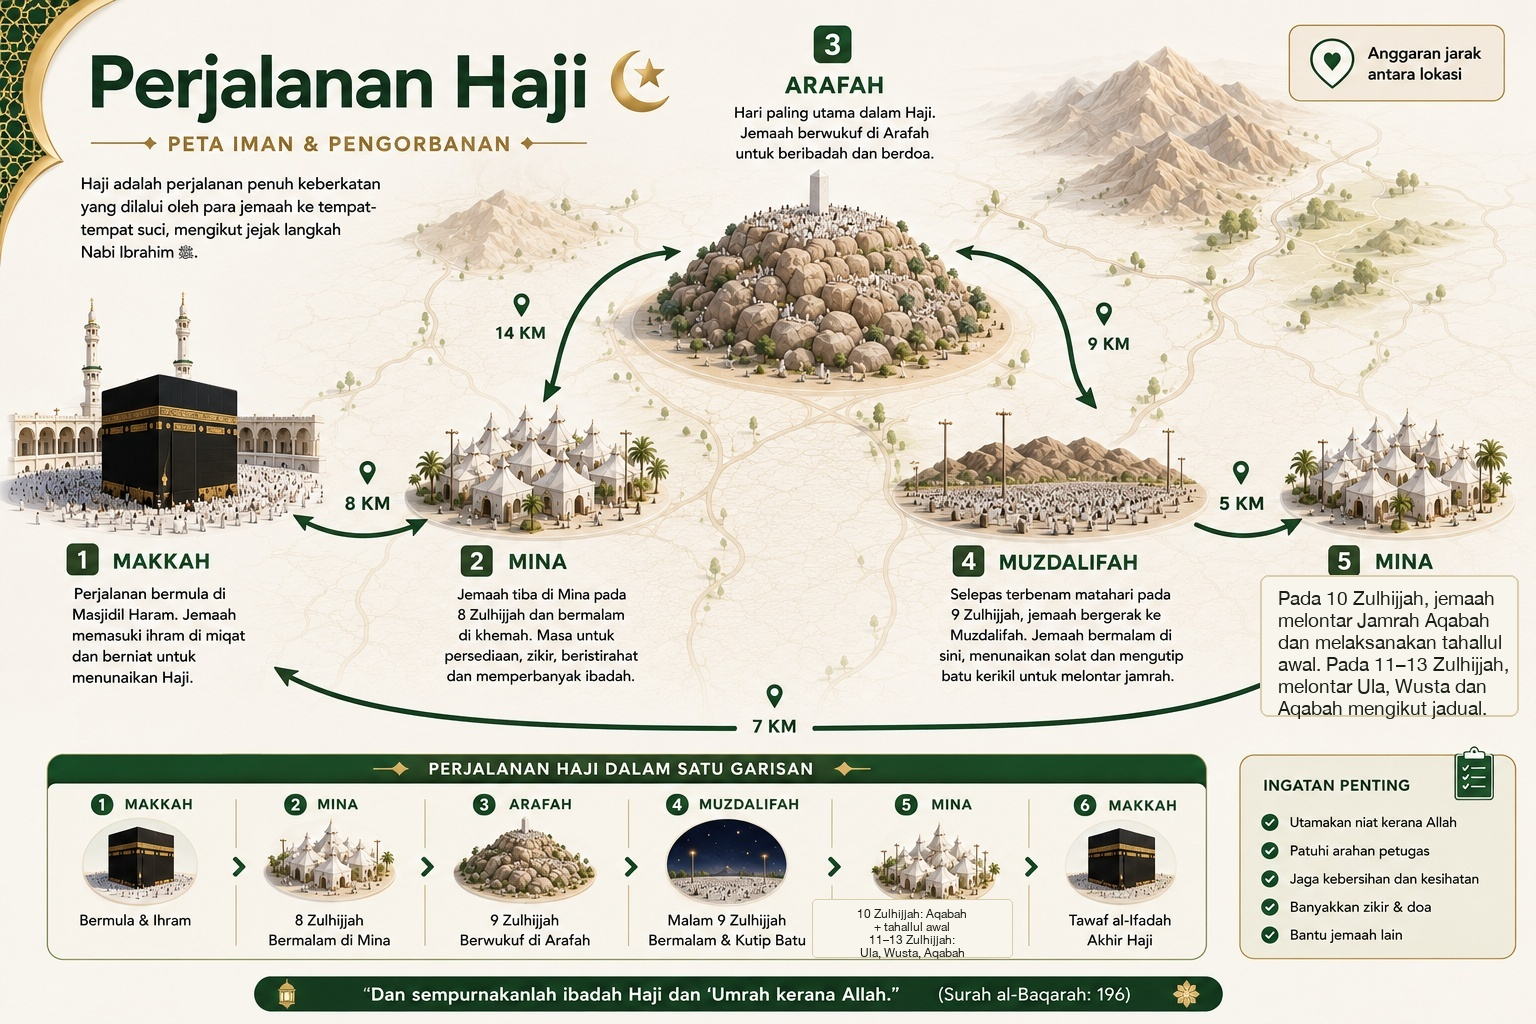
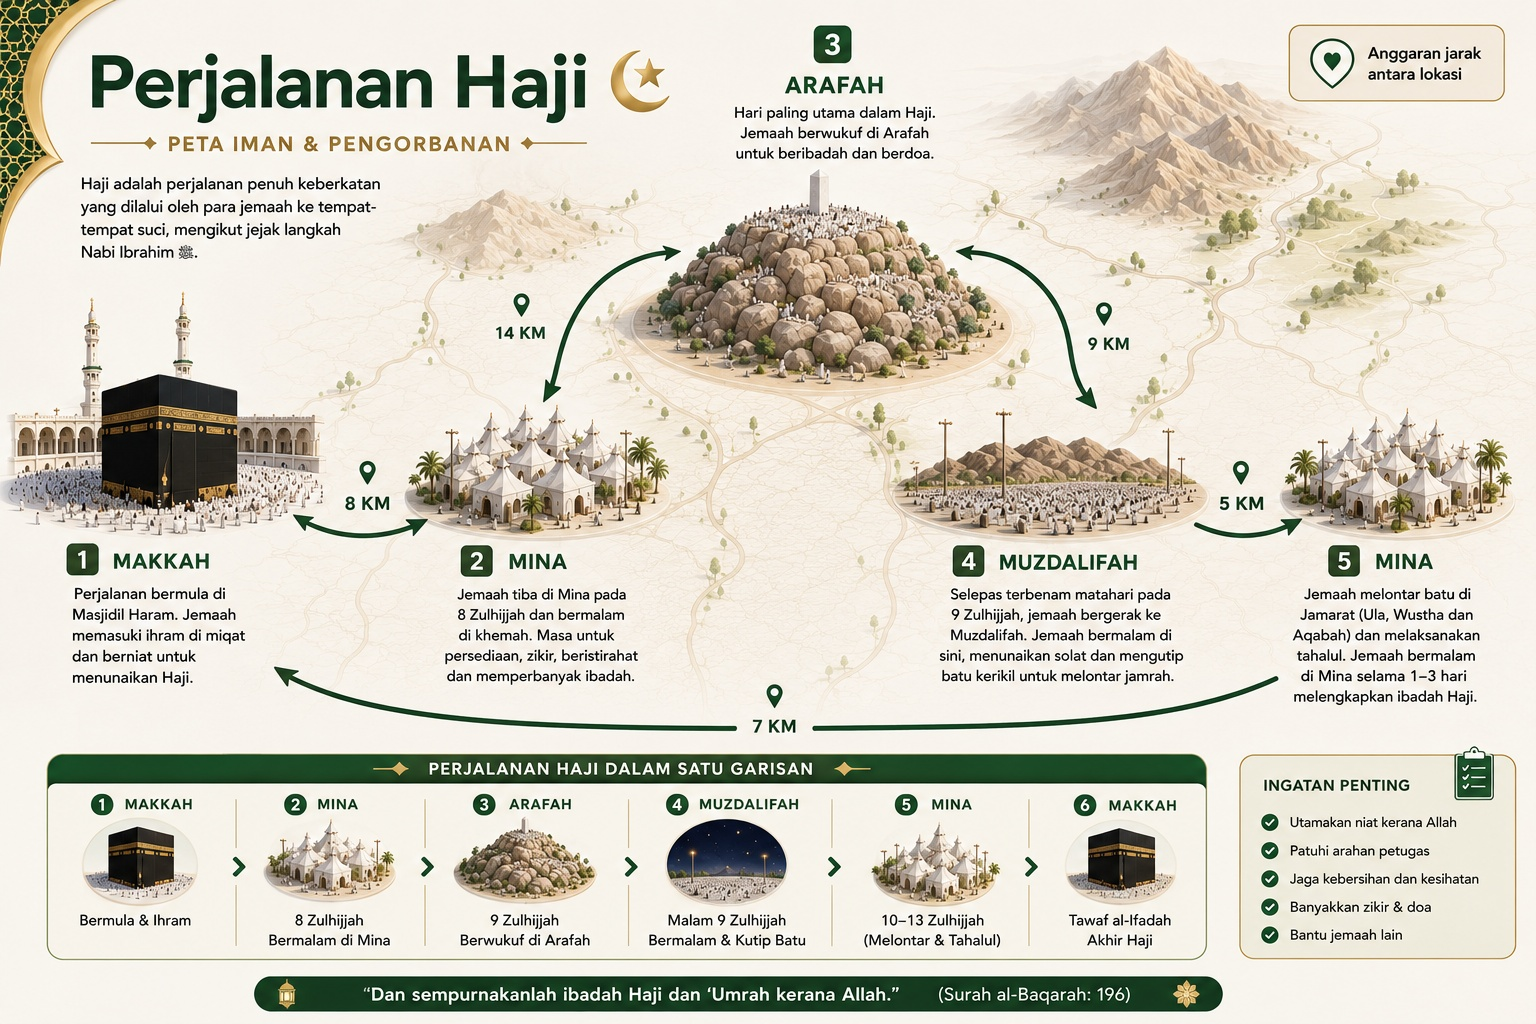
Ganti infografik Haji dengan paparan Flutter tepat

Changed region(s): [[0.8125, 0.5625, 1.0, 0.7188], [0.5625, 0.875, 0.6562, 0.9375]]

diff --git a/lib/hajj_journey_viewer.dart b/lib/hajj_journey_viewer.dart
@@ -10,6 +10,306 @@ class HajjJourneyViewer extends StatefulWidget {
   State<HajjJourneyViewer> createState() => _HajjJourneyViewerState();
 }
 
+class HajjJourneyInfographic extends StatelessWidget {
+  const HajjJourneyInfographic({this.compact = false, super.key});
+
+  final bool compact;
+
+  @override
+  Widget build(BuildContext context) {
+    final HajjColors palette = context.hajjColors;
+    final ColorScheme colors = context.appColorScheme;
+
+    final List<_JourneyStep> steps = <_JourneyStep>[
+      const _JourneyStep(
+        number: '01',
+        title: 'Ihram & Miqat',
+        subtitle: 'Niat dan larangan ihram',
+        icon: Icons.accessibility_new_rounded,
+      ),
+      const _JourneyStep(
+        number: '02',
+        title: 'Arafah',
+        subtitle: 'Wukuf pada 9 Zulhijjah',
+        icon: Icons.landscape_rounded,
+      ),
+      const _JourneyStep(
+        number: '03',
+        title: 'Muzdalifah',
+        subtitle: 'Mabit dan kumpul batu',
+        icon: Icons.nights_stay_rounded,
+      ),
+      const _JourneyStep(
+        number: '04',
+        title: 'Mina',
+        subtitle: 'Melontar mengikut tertib',
+        icon: Icons.route_rounded,
+      ),
+      const _JourneyStep(
+        number: '05',
+        title: 'Makkah',
+        subtitle: 'Tawaf Ifadah dan Sa’i',
+        icon: Icons.mosque_rounded,
+      ),
+    ];
+
+    return Container(
+      padding: EdgeInsets.all(compact ? 16 : 28),
+      decoration: BoxDecoration(
+        color: palette.glassSurface,
+        borderRadius: BorderRadius.circular(compact ? 18 : 28),
+        border: Border.all(color: palette.glassBorder),
+      ),
+      child: Column(
+        mainAxisSize: MainAxisSize.min,
+        crossAxisAlignment: CrossAxisAlignment.start,
+        children: <Widget>[
+          Text(
+            'PERJALANAN HAJI',
+            style: TextStyle(
+              color: palette.gold,
+              fontSize: compact ? 11 : 13,
+              fontWeight: FontWeight.w900,
+              letterSpacing: 1.5,
+            ),
+          ),
+          const SizedBox(height: 6),
+          Text(
+            'Turutan utama ibadah',
+            style: TextStyle(
+              color: colors.onSurface,
+              fontSize: compact ? 18 : 25,
+              fontWeight: FontWeight.w800,
+            ),
+          ),
+          SizedBox(height: compact ? 16 : 24),
+          for (int i = 0; i < steps.length; i++)
+            _JourneyStepTile(
+              step: steps[i],
+              compact: compact,
+              isLast: i == steps.length - 1,
+            ),
+          SizedBox(height: compact ? 12 : 20),
+          _JamaratOrderCard(compact: compact),
+        ],
+      ),
+    );
+  }
+}
+
+class _JourneyStep {
+  const _JourneyStep({
+    required this.number,
+    required this.title,
+    required this.subtitle,
+    required this.icon,
+  });
+
+  final String number;
+  final String title;
+  final String subtitle;
+  final IconData icon;
+}
+
+class _JourneyStepTile extends StatelessWidget {
+  const _JourneyStepTile({
+    required this.step,
+    required this.compact,
+    required this.isLast,
+  });
+
+  final _JourneyStep step;
+  final bool compact;
+  final bool isLast;
+
+  @override
+  Widget build(BuildContext context) {
+    final HajjColors palette = context.hajjColors;
+    final ColorScheme colors = context.appColorScheme;
+    final double size = compact ? 38 : 48;
+
+    return Row(
+      crossAxisAlignment: CrossAxisAlignment.start,
+      children: <Widget>[
+        SizedBox(
+          width: size,
+          child: Column(
+            children: <Widget>[
+              Container(
+                width: size,
+                height: size,
+                alignment: Alignment.center,
+                decoration: BoxDecoration(
+                  color: palette.emerald.withValues(alpha: 0.12),
+                  shape: BoxShape.circle,
+                  border: Border.all(
+                    color: palette.emerald.withValues(alpha: 0.34),
+                  ),
+                ),
+                child: Icon(
+                  step.icon,
+                  color: palette.emerald,
+                  size: size * 0.48,
+                ),
+              ),
+              if (!isLast)
+                Container(
+                  width: 2,
+                  height: compact ? 30 : 38,
+                  color: palette.emerald.withValues(alpha: 0.24),
+                ),
+            ],
+          ),
+        ),
+        SizedBox(width: compact ? 12 : 16),
+        Expanded(
+          child: Padding(
+            padding: EdgeInsets.only(top: compact ? 3 : 7),
+            child: Column(
+              crossAxisAlignment: CrossAxisAlignment.start,
+              children: <Widget>[
+                Text(
+                  '${step.number}  ${step.title}',
+                  style: TextStyle(
+                    color: colors.onSurface,
+                    fontSize: compact ? 13 : 17,
+                    fontWeight: FontWeight.w800,
+                  ),
+                ),
+                const SizedBox(height: 3),
+                Text(
+                  step.subtitle,
+                  style: TextStyle(
+                    color: palette.mutedText,
+                    fontSize: compact ? 11 : 13,
+                    height: 1.35,
+                  ),
+                ),
+                SizedBox(height: compact ? 12 : 17),
+              ],
+            ),
+          ),
+        ),
+      ],
+    );
+  }
+}
+
+class _JamaratOrderCard extends StatelessWidget {
+  const _JamaratOrderCard({required this.compact});
+
+  final bool compact;
+
+  @override
+  Widget build(BuildContext context) {
+    final HajjColors palette = context.hajjColors;
+    final ColorScheme colors = context.appColorScheme;
+
+    return Container(
+      width: double.infinity,
+      padding: EdgeInsets.all(compact ? 13 : 18),
+      decoration: BoxDecoration(
+        color: palette.gold.withValues(alpha: 0.10),
+        borderRadius: BorderRadius.circular(compact ? 15 : 20),
+        border: Border.all(color: palette.gold.withValues(alpha: 0.28)),
+      ),
+      child: Column(
+        crossAxisAlignment: CrossAxisAlignment.start,
+        children: <Widget>[
+          Row(
+            children: <Widget>[
+              Icon(Icons.warning_amber_rounded, color: palette.gold, size: 20),
+              const SizedBox(width: 8),
+              Expanded(
+                child: Text(
+                  'Turutan melontar di Mina',
+                  style: TextStyle(
+                    color: colors.onSurface,
+                    fontSize: compact ? 12 : 15,
+                    fontWeight: FontWeight.w900,
+                  ),
+                ),
+              ),
+            ],
+          ),
+          const SizedBox(height: 10),
+          Wrap(
+            spacing: 6,
+            runSpacing: 6,
+            children: <Widget>[
+              _JamaratChip(number: '1', label: 'Ula', compact: compact),
+              _JamaratArrow(compact: compact),
+              _JamaratChip(number: '2', label: 'Wusta', compact: compact),
+              _JamaratArrow(compact: compact),
+              _JamaratChip(number: '3', label: 'Kubra', compact: compact),
+            ],
+          ),
+          const SizedBox(height: 8),
+          Text(
+            'Hari Tasyrik: 7 batu pada setiap jamrah, mengikut tertib.',
+            style: TextStyle(
+              color: palette.mutedText,
+              fontSize: compact ? 10 : 12,
+              height: 1.4,
+            ),
+          ),
+        ],
+      ),
+    );
+  }
+}
+
+class _JamaratChip extends StatelessWidget {
+  const _JamaratChip({
+    required this.number,
+    required this.label,
+    required this.compact,
+  });
+
+  final String number;
+  final String label;
+  final bool compact;
+
+  @override
+  Widget build(BuildContext context) {
+    final HajjColors palette = context.hajjColors;
+    return Container(
+      padding: EdgeInsets.symmetric(
+        horizontal: compact ? 8 : 11,
+        vertical: compact ? 6 : 8,
+      ),
+      decoration: BoxDecoration(
+        color: palette.emerald.withValues(alpha: 0.12),
+        borderRadius: BorderRadius.circular(50),
+        border: Border.all(color: palette.emerald.withValues(alpha: 0.30)),
+      ),
+      child: Text(
+        '$number  $label',
+        style: TextStyle(
+          color: palette.emerald,
+          fontSize: compact ? 10 : 12,
+          fontWeight: FontWeight.w900,
+        ),
+      ),
+    );
+  }
+}
+
+class _JamaratArrow extends StatelessWidget {
+  const _JamaratArrow({required this.compact});
+
+  final bool compact;
+
+  @override
+  Widget build(BuildContext context) {
+    return Icon(
+      Icons.arrow_forward_rounded,
+      color: context.hajjColors.gold,
+      size: compact ? 14 : 18,
+    );
+  }
+}
+
 class _HajjJourneyViewerState extends State<HajjJourneyViewer>
     with SingleTickerProviderStateMixin {
   final TransformationController transformationController =
@@ -217,29 +517,9 @@ class _HajjJourneyViewerState extends State<HajjJourneyViewer>
                 panEnabled: true,
                 scaleEnabled: true,
                 child: Center(
-                  child: Image.asset(
-                    'assets/images/journey.jpg',
-                    fit: BoxFit.contain,
-                    filterQuality: FilterQuality.high,
-                    errorBuilder:
-                        (
-                          BuildContext context,
-                          Object error,
-                          StackTrace? stackTrace,
-                        ) {
-                          return Center(
-                            child: Text(
-                              'Gambar tidak ditemui.\n'
-                              'Pastikan fail berada di '
-                              'assets/images/journey.jpg',
-                              textAlign: TextAlign.center,
-                              style: TextStyle(
-                                color: colors.onSurface,
-                                height: 1.5,
-                              ),
-                            ),
-                          );
-                        },
+                  child: SingleChildScrollView(
+                    padding: const EdgeInsets.all(18),
+                    child: HajjJourneyInfographic(),
                   ),
                 ),
               ),

diff --git a/lib/home_dashboard.dart b/lib/home_dashboard.dart
@@ -1467,29 +1467,18 @@ class _HajjJourneyBoxState extends State<HajjJourneyBox> {
                     children: <Widget>[
                       ClipRRect(
                         borderRadius: BorderRadius.circular(13),
-                        child: Image.asset(
-                          'assets/images/journey.jpg',
+                        child: SizedBox(
                           width: 100,
                           height: 72,
-                          fit: BoxFit.cover,
-                          errorBuilder:
-                              (
-                                BuildContext context,
-                                Object error,
-                                StackTrace? stackTrace,
-                              ) {
-                                return Container(
-                                  width: 100,
-                                  height: 72,
-                                  alignment: Alignment.center,
-                                  color: palette.softSurface,
-                                  child: HajjIcon(
-                                    type: HajjIconType.guide,
-                                    color: palette.gold,
-                                    size: 28,
-                                  ),
-                                );
-                              },
+                          child: ClipRect(
+                            child: FittedBox(
+                              fit: BoxFit.cover,
+                              child: SizedBox(
+                                width: 390,
+                                child: HajjJourneyInfographic(compact: true),
+                              ),
+                            ),
+                          ),
                         ),
                       ),
                       const SizedBox(width: 15),
